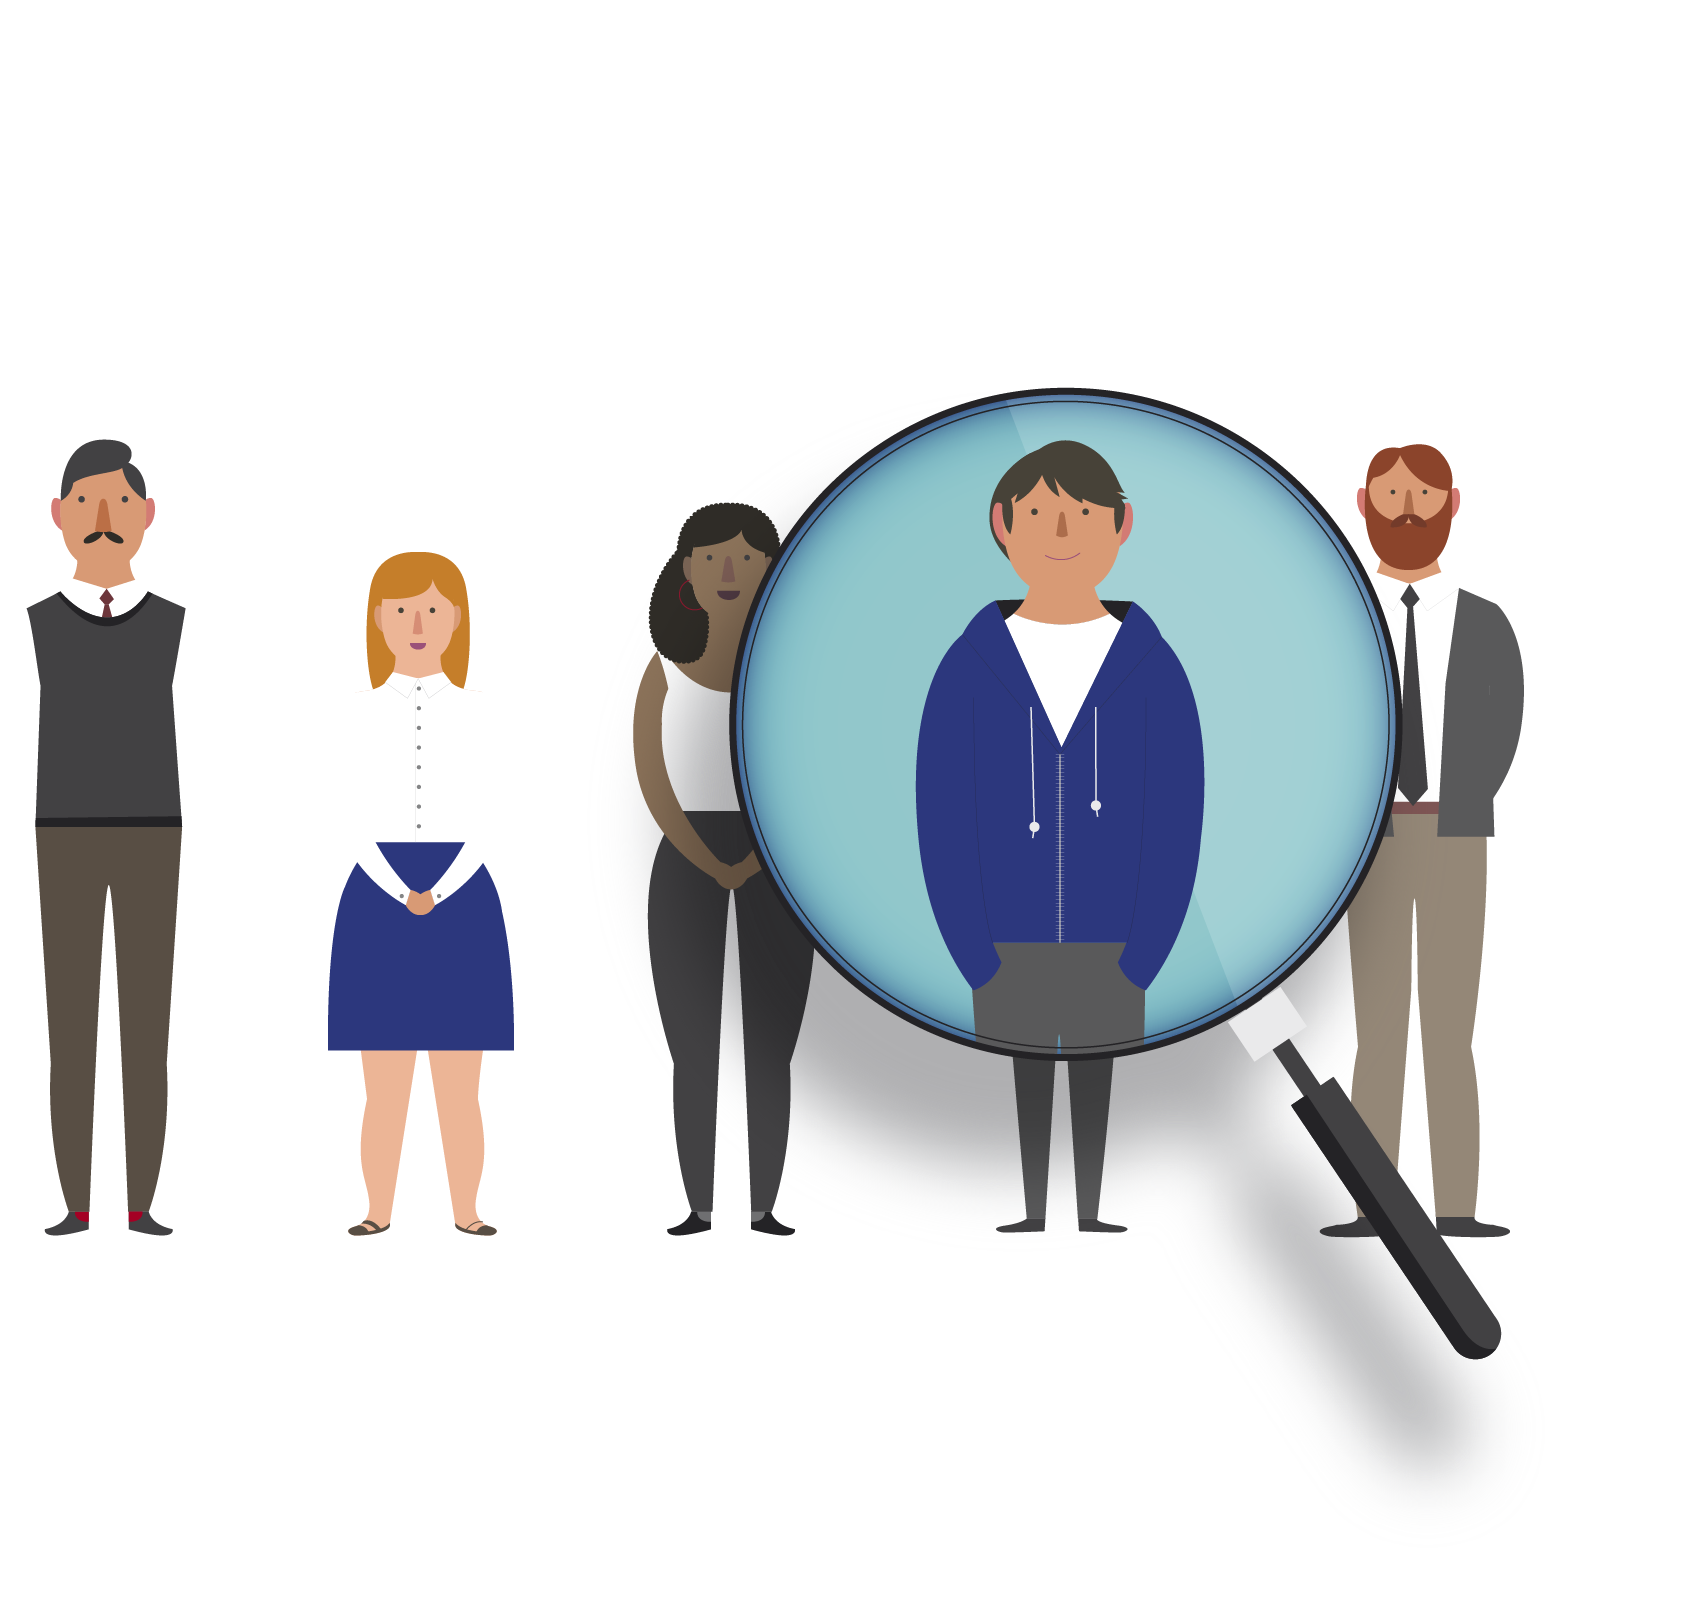
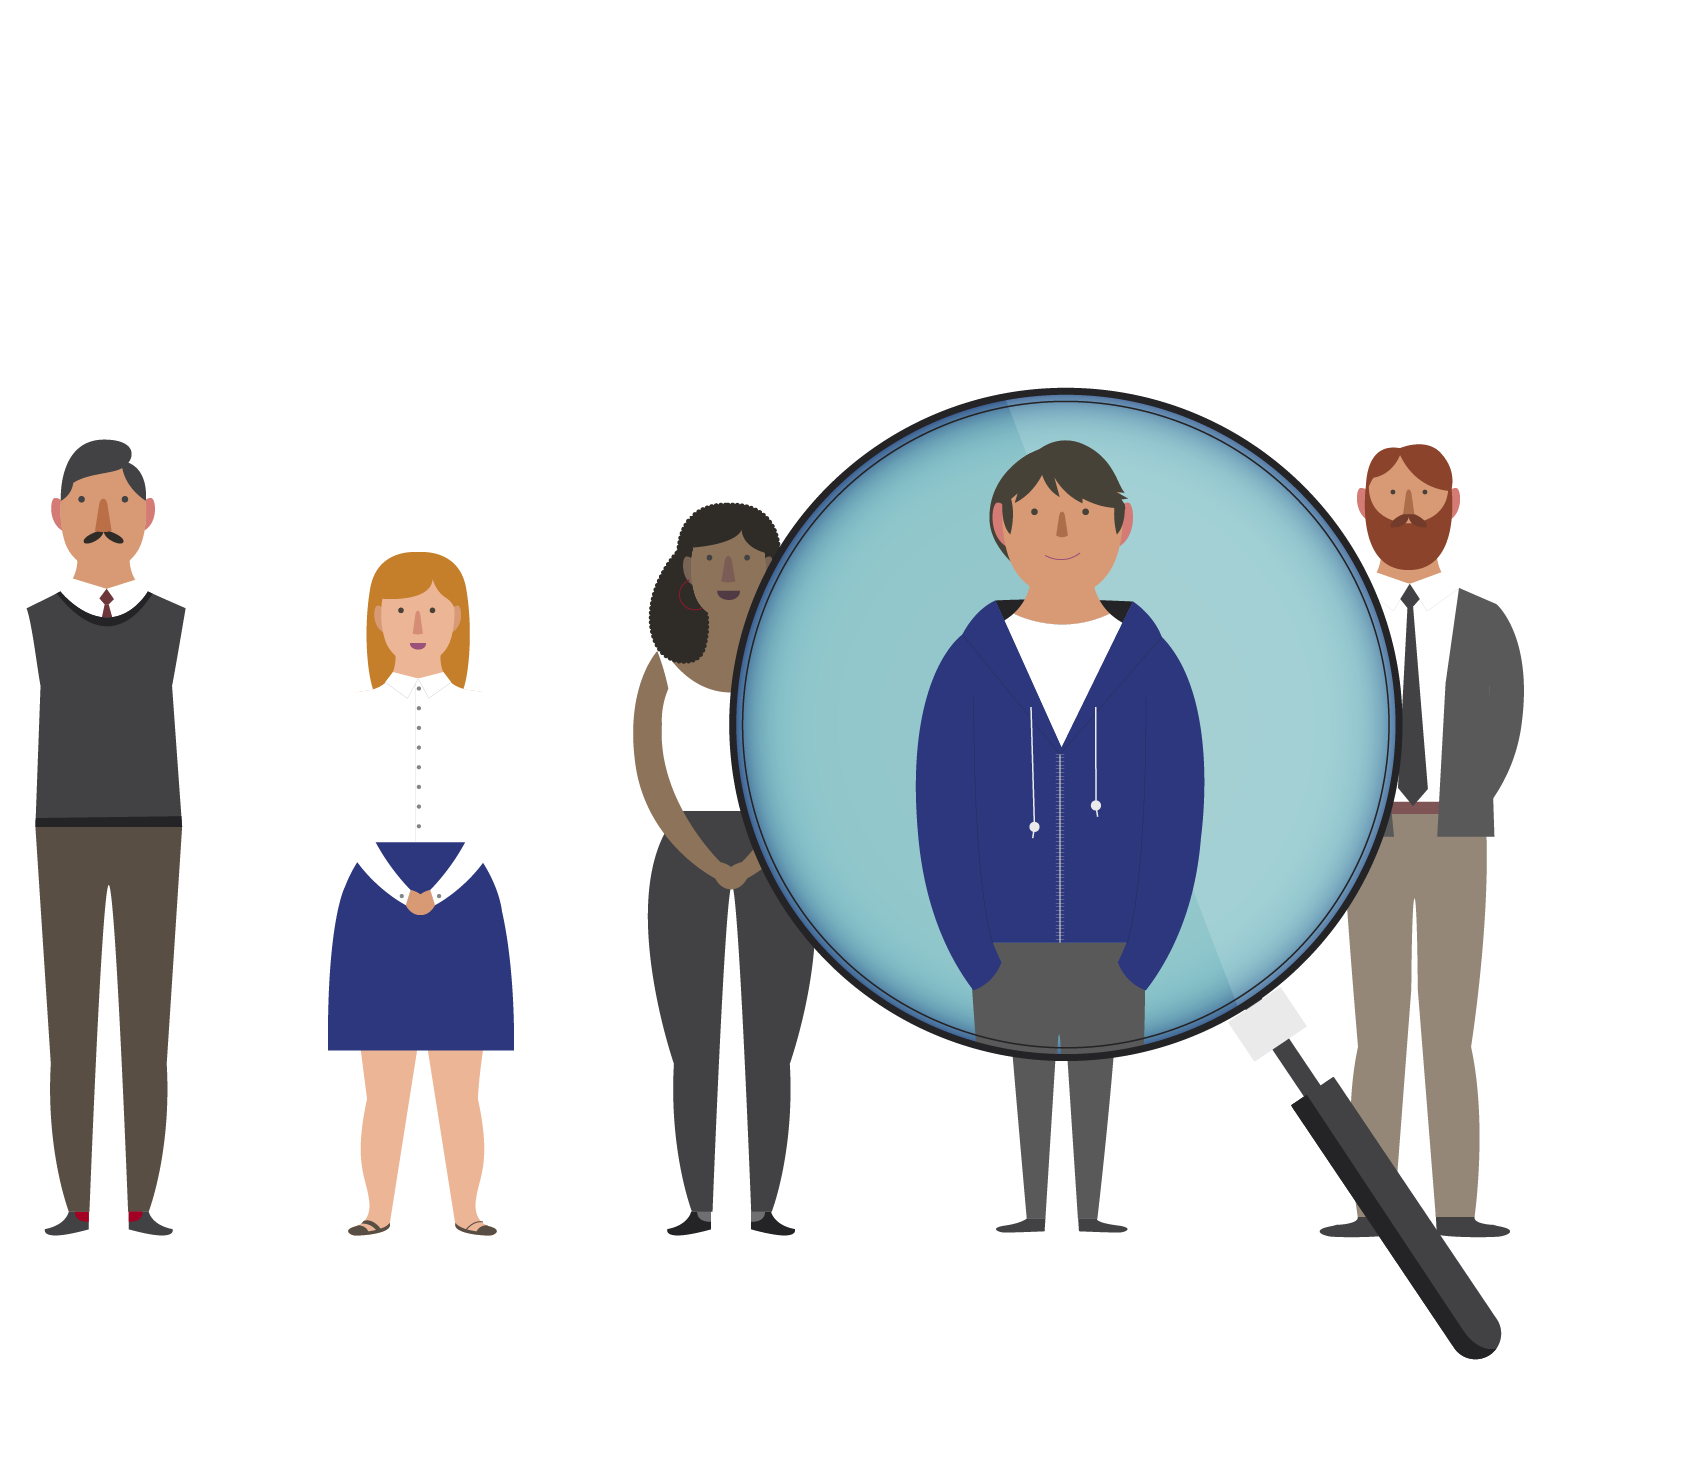
dede

diff --git a/sass/style.css b/sass/style.css
@@ -1,1 +1,1 @@
-@import"https://fonts.googleapis.com/css2?family=Roboto:wght@400;900&family=Ubuntu&family=Rubik&family=Paytone+One&family=Source+Code+Pro:wght@400;900&family=Roboto+Slab&family=Mulish&display=swap";.labels{background:#840020;padding:4px 8px;color:#fff;text-transform:uppercase;width:fit-content;margin:0 auto 8px;font-size:1rem}@media screen and (max-width: 768px){.labels{margin:0}}.preloader{position:fixed;top:0;bottom:0;left:0;right:0;z-index:999999;background:#ab3138}.preloader .waiting{position:absolute;transform:translate(-50%, -50%);left:50%;top:50%;width:200px;height:auto}.preloader .waiting img{width:100%;height:100%;object-fit:contain}.preloader .animate{-webkit-animation-duration:.5s;animation-duration:.5s;-webkit-animation-fill-mode:both;animation-fill-mode:both;-webkit-animation-timing-function:linear;animation-timing-function:linear;animation-iteration-count:infinite;-webkit-animation-iteration-count:infinite;-webkit-animation-name:bounce;animation-name:bounce}@-webkit-keyframes bounce{0%,100%{-webkit-transform:translateX(0)}50%{-webkit-transform:translateX(-10px)}}@keyframes bounce{0%,100%{transform:translateX(0)}50%{transform:translateX(-10px)}}.preloader .bounce{-webkit-animation-name:bounce;animation-name:bounce}.mb-80{margin-bottom:20vh}.source-code{font-family:"Source Code Pro"}section{padding:32px 0;background:#ab3138;min-height:100vh;z-index:11;position:relative}section h3{color:#ab3138}section .bg-block{background:#fff;padding:16px;border-radius:16px}section .text-center h3{font-size:2.5rem}section p,section li{font-size:1.3rem;color:#fff}@media screen and (max-width: 768px){section p,section li{font-size:1.2rem}}@media screen and (max-width: 400px){section p,section li{font-size:1rem}}.slick-next,.slick-prev{z-index:17 !important;width:40px;height:40px;border-radius:50%;background:rgba(206,147,82,.8)}.slick-next:focus,.slick-next:hover,.slick-prev:focus,.slick-prev:hover{background:rgba(206,147,82,.5)}.slick-next::before,.slick-prev::before{font-family:"fontAwesome" !important;font-size:32px !important;color:#fff !important;font-weight:700 !important}@media screen and (max-width: 766px){.slick-next::before,.slick-prev::before{font-size:32px !important}}.slick-prev{left:-16px !important}@media screen and (max-width: 768px){.slick-prev{left:-16px !important}}.slick-prev::before{content:"" !important}.slick-next{right:-16px !important}@media screen and (max-width: 768px){.slick-next{right:-16px !important}}.slick-next::before{content:"" !important}.sticky-mode{position:sticky;left:0;right:0;top:0;bottom:0;min-height:100vh}.wrap-detikx{width:700px;position:relative;margin:0 auto}@media screen and (max-width: 766px){.wrap-detikx{width:90%;margin:0 auto;display:block}}.line-line{width:100%;height:1px;background:linear-gradient(to right, transparent, white, transparent);margin:52px 0}.totop{position:relative;z-index:19}.firstletter::first-letter{float:left;font-weight:bold;margin-right:8px;font-size:60px;font-size:6rem;line-height:40px;line-height:4rem;height:4rem;text-transform:uppercase}main{overflow-x:clip;background:#fafafa}html,body{position:relative;height:100%;font-family:"Rubik" !important}html h1,html h2,html h3,body h1,body h2,body h3{font-family:"Rubik",sans-serif !important}h4,h5{font-family:"Rubik",sans-serif !important;font-weight:bold}.slick-slide{margin:0 8px}.slick-list{margin:0 -8px}.img{width:100%}.img img{width:100%;height:100%;object-fit:cover}.hello{width:100%;height:auto;margin-top:8px;border-radius:16px;margin-bottom:16px;background:linear-gradient(45deg, rgba(0, 0, 0, 0.3), transparent);position:relative}.hello .content{padding:16px 16px;position:relative;z-index:2}.hello .content p{margin-bottom:0}section .nav-pills .nav-link.active,section .nav-pills .show>.nav-link{background:#333;color:#fff}section .nav-pills .nav-link{border-radius:25px}.dashboard-content{display:none}#nav.no_index,#share{z-index:19 !important}#nav.dark{background:#7c181f !important}.footer{z-index:19}.share_icon{color:#fff !important}.share_icon>a{padding:2px 0 !important}@media screen and (max-width: 768px){.share_icon>a{padding:0 !important;width:28px;height:28px}}.share_icon>a i{font-size:25px !important;line-height:initial !important}@media screen and (max-width: 766px){.share_icon>a i{font-size:16px !important;line-height:initial !important;width:30px !important;height:30px !important}}#nav{backdrop-filter:blur(11px)}.bg-blues{background:#ab3138 !important}.share_icon>a{padding:0 !important}.baca-detikx .bacajuga_box{display:initial !important}.baca-detikx .bacajuga_box .container{display:none}.baca-detikx .bacajuga{width:100% !important;display:block}.baca-detikx .bacajuga a{display:inline-block;padding:0px;width:47% !important;margin:0 8px;border-radius:24px;position:relative;height:320px;text-align:left}.baca-detikx .bacajuga a::after{border-radius:24px}@media screen and (max-width: 766px){.baca-detikx .bacajuga a{width:100% !important;margin:4px 0}}.baca-detikx .bacajuga a:hover{text-decoration:none;color:orange !important}.baca-detikx .bacajuga a article{position:absolute;top:initial;width:100%;background:linear-gradient(to top, black, transparent);padding:8px 16px;border-radius:24px;bottom:0;transform:initial}.baca-detikx .bacajuga a article h2{font-family:"Rubik" !important;font-size:1.2rem}.haha,.hahad{background:#fff;border-radius:16px;padding:0px 8px;position:absolute;top:165px;right:0}@media screen and (max-width: 768px){.haha,.hahad{display:none;color:#333;top:140px}}.haha:hover,.hahad:hover{background:rgba(206,147,82,.5)}.all-helping{position:absolute;inset:0;background:#fff;text-align:center;width:100%;height:100%;z-index:17}.slider{display:none}.slider.slick-initialized{display:block}.banner{background:linear-gradient(to top, #1c7b9d, #69bfdd);padding:0}.banner .title{position:absolute;text-align:center;left:50%;top:50%;transform:translate(-50%, -50%);width:80%;z-index:8}.banner .wrappers{width:100%;height:100vh;position:relative}@media screen and (max-width: 768px){.banner .wrappers{height:65vh;top:20vh}}.banner .wrappers .image{width:100%;height:100%}.banner .wrappers .image img{width:100%;height:100%;object-fit:cover}.banner .wrappers .tangan{position:absolute;left:18vw;top:13vh;width:fit-content;height:35%}@media screen and (max-width: 768px){.banner .wrappers .tangan{left:-14vw;top:12vh;height:30%}}.banner .wrappers .tangan img{width:100%;height:100%;object-fit:contain}.banner .wrappers img{width:100%;height:100%;object-fit:cover}.pembukaan{background:#1c7b9d}.pembukaan .bayangan{position:absolute;right:-8%;bottom:-16%;width:50%;height:auto;filter:grayscale(1) opacity(0.2)}.pembukaan .bayangan img{width:100%;height:100%;object-fit:cover}.pembukaan .bawah{position:absolute;bottom:-16%;left:0;width:50%;z-index:4;height:auto}@media screen and (max-width: 768px){.pembukaan .bawah{width:100%;bottom:-5%;left:-8%}}.pembukaan .bawah img{width:100%;height:100%;object-fit:contain}.pembukaan .bawahx{position:absolute;bottom:-11%;right:0;width:fit-content;z-index:4;height:65vh}@media screen and (max-width: 768px){.pembukaan .bawahx{width:100%;bottom:-20%}}.pembukaan .bawahx img{width:100%;height:100%;object-fit:contain}.pembukaan .wrap-detikx{margin-top:-100vh}.pembukaan .wrap-detikx .hello{z-index:-1}.teropong{background:#1c7b9d}.teropong .image{width:fit-content;height:360px}.teropong .image img{width:100%;height:100%;object-fit:contain}/*# sourceMappingURL=style.css.map */
+@import"https://fonts.googleapis.com/css2?family=Roboto:wght@400;900&family=Ubuntu&family=Rubik&family=Paytone+One&family=Source+Code+Pro:wght@400;900&family=Roboto+Slab&family=Mulish&display=swap";.labels{background:#840020;padding:4px 8px;color:#fff;text-transform:uppercase;width:fit-content;margin:0 auto 8px;font-size:1rem}@media screen and (max-width: 768px){.labels{margin:0}}.preloader{position:fixed;top:0;bottom:0;left:0;right:0;z-index:999999;background:#ab3138}.preloader .waiting{position:absolute;transform:translate(-50%, -50%);left:50%;top:50%;width:200px;height:auto}.preloader .waiting img{width:100%;height:100%;object-fit:contain}.preloader .animate{-webkit-animation-duration:.5s;animation-duration:.5s;-webkit-animation-fill-mode:both;animation-fill-mode:both;-webkit-animation-timing-function:linear;animation-timing-function:linear;animation-iteration-count:infinite;-webkit-animation-iteration-count:infinite;-webkit-animation-name:bounce;animation-name:bounce}@-webkit-keyframes bounce{0%,100%{-webkit-transform:translateX(0)}50%{-webkit-transform:translateX(-10px)}}@keyframes bounce{0%,100%{transform:translateX(0)}50%{transform:translateX(-10px)}}.preloader .bounce{-webkit-animation-name:bounce;animation-name:bounce}.mb-80{margin-bottom:20vh}.source-code{font-family:"Source Code Pro"}section{padding:32px 0;background:#ab3138;min-height:100vh;z-index:11;position:relative}section h3{color:#ab3138}section .bg-block{background:#fff;padding:16px;border-radius:16px}section .text-center h3{font-size:2.5rem}section p,section li{font-size:1.3rem;color:#fff}@media screen and (max-width: 768px){section p,section li{font-size:1.2rem}}@media screen and (max-width: 400px){section p,section li{font-size:1rem}}.slick-next,.slick-prev{z-index:17 !important;width:40px;height:40px;border-radius:50%;background:rgba(206,147,82,.8)}.slick-next:focus,.slick-next:hover,.slick-prev:focus,.slick-prev:hover{background:rgba(206,147,82,.5)}.slick-next::before,.slick-prev::before{font-family:"fontAwesome" !important;font-size:32px !important;color:#fff !important;font-weight:700 !important}@media screen and (max-width: 766px){.slick-next::before,.slick-prev::before{font-size:32px !important}}.slick-prev{left:-16px !important}@media screen and (max-width: 768px){.slick-prev{left:-16px !important}}.slick-prev::before{content:"" !important}.slick-next{right:-16px !important}@media screen and (max-width: 768px){.slick-next{right:-16px !important}}.slick-next::before{content:"" !important}.sticky-mode{position:sticky;left:0;right:0;top:0;bottom:0;min-height:100vh}.wrap-detikx{width:700px;position:relative;margin:0 auto}@media screen and (max-width: 766px){.wrap-detikx{width:90%;margin:0 auto;display:block}}.line-line{width:100%;height:1px;background:linear-gradient(to right, transparent, white, transparent);margin:52px 0}.totop{position:relative;z-index:19}.firstletter::first-letter{float:left;font-weight:bold;margin-right:8px;font-size:60px;font-size:6rem;line-height:40px;line-height:4rem;height:4rem;text-transform:uppercase}main{overflow-x:clip;background:#fafafa}html,body{position:relative;height:100%;font-family:"Rubik" !important}html h1,html h2,html h3,body h1,body h2,body h3{font-family:"Rubik",sans-serif !important}h4,h5{font-family:"Rubik",sans-serif !important;font-weight:bold}.slick-slide{margin:0 8px}.slick-list{margin:0 -8px}.img{width:100%}.img img{width:100%;height:100%;object-fit:cover}.hello{width:100%;height:auto;margin-top:8px;border-radius:16px;margin-bottom:16px;background:linear-gradient(45deg, rgba(0, 0, 0, 0.3), transparent);position:relative}.hello .content{padding:16px 16px;position:relative;z-index:2}.hello .content p{margin-bottom:0}section .nav-pills .nav-link.active,section .nav-pills .show>.nav-link{background:#333;color:#fff}section .nav-pills .nav-link{border-radius:25px}.dashboard-content{display:none}#nav.no_index,#share{z-index:19 !important}#nav.dark{background:#7c181f !important}.footer{z-index:19}.share_icon{color:#fff !important}.share_icon>a{padding:2px 0 !important}@media screen and (max-width: 768px){.share_icon>a{padding:0 !important;width:28px;height:28px}}.share_icon>a i{font-size:25px !important;line-height:initial !important}@media screen and (max-width: 766px){.share_icon>a i{font-size:16px !important;line-height:initial !important;width:30px !important;height:30px !important}}#nav{backdrop-filter:blur(11px)}.bg-blues{background:#ab3138 !important}.share_icon>a{padding:0 !important}.baca-detikx .bacajuga_box{display:initial !important}.baca-detikx .bacajuga_box .container{display:none}.baca-detikx .bacajuga{width:100% !important;display:block}.baca-detikx .bacajuga a{display:inline-block;padding:0px;width:47% !important;margin:0 8px;border-radius:24px;position:relative;height:320px;text-align:left}.baca-detikx .bacajuga a::after{border-radius:24px}@media screen and (max-width: 766px){.baca-detikx .bacajuga a{width:100% !important;margin:4px 0}}.baca-detikx .bacajuga a:hover{text-decoration:none;color:orange !important}.baca-detikx .bacajuga a article{position:absolute;top:initial;width:100%;background:linear-gradient(to top, black, transparent);padding:8px 16px;border-radius:24px;bottom:0;transform:initial}.baca-detikx .bacajuga a article h2{font-family:"Rubik" !important;font-size:1.2rem}.haha,.hahad{background:#fff;border-radius:16px;padding:0px 8px;position:absolute;top:165px;right:0}@media screen and (max-width: 768px){.haha,.hahad{display:none;color:#333;top:140px}}.haha:hover,.hahad:hover{background:rgba(206,147,82,.5)}.all-helping{position:absolute;inset:0;background:#fff;text-align:center;width:100%;height:100%;z-index:17}.slider{display:none}.slider.slick-initialized{display:block}.banner{background:linear-gradient(to top, #1c7b9d, #69bfdd);padding:0}.banner .title{position:absolute;text-align:center;left:50%;top:50%;transform:translate(-50%, -50%);width:80%;z-index:8}.banner .wrappers{width:100%;height:100vh;position:relative}@media screen and (max-width: 768px){.banner .wrappers{height:65vh;top:20vh}}.banner .wrappers .image{width:100%;height:100%}.banner .wrappers .image img{width:100%;height:100%;object-fit:cover}.banner .wrappers .tangan{position:absolute;left:18vw;top:13vh;width:fit-content;height:35%}@media screen and (max-width: 768px){.banner .wrappers .tangan{left:-14vw;top:12vh;height:30%}}.banner .wrappers .tangan img{width:100%;height:100%;object-fit:contain}.banner .wrappers img{width:100%;height:100%;object-fit:cover}.pembukaan{background:#1c7b9d}.pembukaan .bayangan{position:absolute;right:-8%;bottom:-16%;width:50%;height:auto;filter:grayscale(1) opacity(0.2)}.pembukaan .bayangan img{width:100%;height:100%;object-fit:cover}.pembukaan .bawah{position:absolute;bottom:0%;left:0;width:50%;z-index:4;height:auto}@media screen and (max-width: 768px){.pembukaan .bawah{width:100%;bottom:-5%;left:-8%}}.pembukaan .bawah img{width:100%;height:100%;object-fit:contain}.pembukaan .bawahx{position:absolute;bottom:-11%;right:0;width:fit-content;z-index:4;height:65vh}@media screen and (max-width: 768px){.pembukaan .bawahx{width:100%;bottom:-20%}}.pembukaan .bawahx img{width:100%;height:100%;object-fit:contain}.pembukaan .wrap-detikx{margin-top:-100vh;padding-bottom:20vh}.pembukaan .wrap-detikx .hello{z-index:-1}.teropong{background:#1c7b9d}.teropong .image{width:fit-content;height:360px;margin:0 auto}.teropong .image img{width:100%;height:100%;object-fit:contain}/*# sourceMappingURL=style.css.map */

diff --git a/index.html b/index.html
@@ -24,9 +24,9 @@
             </section>
             <section class="pembukaan">
                 <div class="sticky-mode">
-                    <div class="bayangan">
+                    <!-- <div class="bayangan">
                         <img src="img/bayangan.png" alt="">
-                    </div>
+                    </div> -->
                     <div class="bawah">
                         <img src="img/bawah.png" alt="">
                     </div>
@@ -65,6 +65,9 @@
                     <p>
                         Lorem ipsum, dolor sit amet consectetur adipisicing elit. Iure, odio aliquam. Saepe cum hic ipsum assumenda, nesciunt officiis laborum, veniam aperiam, ipsa animi ea similique repellat tenetur voluptatem? Nesciunt, harum.
                     </p>
+                    <div class="image">
+                        <img src="img/genz.png" alt="">
+                    </div>
                 </div>
             </section>
         </main>

diff --git a/sass/pembukaan.scss b/sass/pembukaan.scss
@@ -1,5 +1,6 @@
 .pembukaan {
     background: #1c7b9d;
+    // padding: 32px 0 50vh;
     .bayangan {
         position: absolute;
         right: -8%;
@@ -15,11 +16,21 @@
     }
     .bawah {
         position: absolute;
-        bottom: -16%;
+        bottom: 0%;
         left: 0;
         width: 50%;
         z-index: 4;
         height: auto;
+        // &::after {
+        //     content: "";
+        //     position: absolute;
+        //     bottom: 0;
+        //     left: 0;
+        //     right: 0;
+        //     width: 100%;
+        //     height: 50px;
+        //     background: linear-gradient(to top, #1c7b9d, transparent);
+        // }
         @media screen and (max-width: 768px) {
             width: 100%;
             bottom: -5%;
@@ -53,6 +64,7 @@
 
     .wrap-detikx {
         margin-top: -100vh;
+        padding-bottom: 20vh;
         .hello {
             z-index: -1;
         }

diff --git a/sass/teropong.scss b/sass/teropong.scss
@@ -3,6 +3,7 @@
     .image {
         width: fit-content;
         height: 360px;
+        margin: 0 auto;
         img {
             width: 100%;
             height: 100%;
